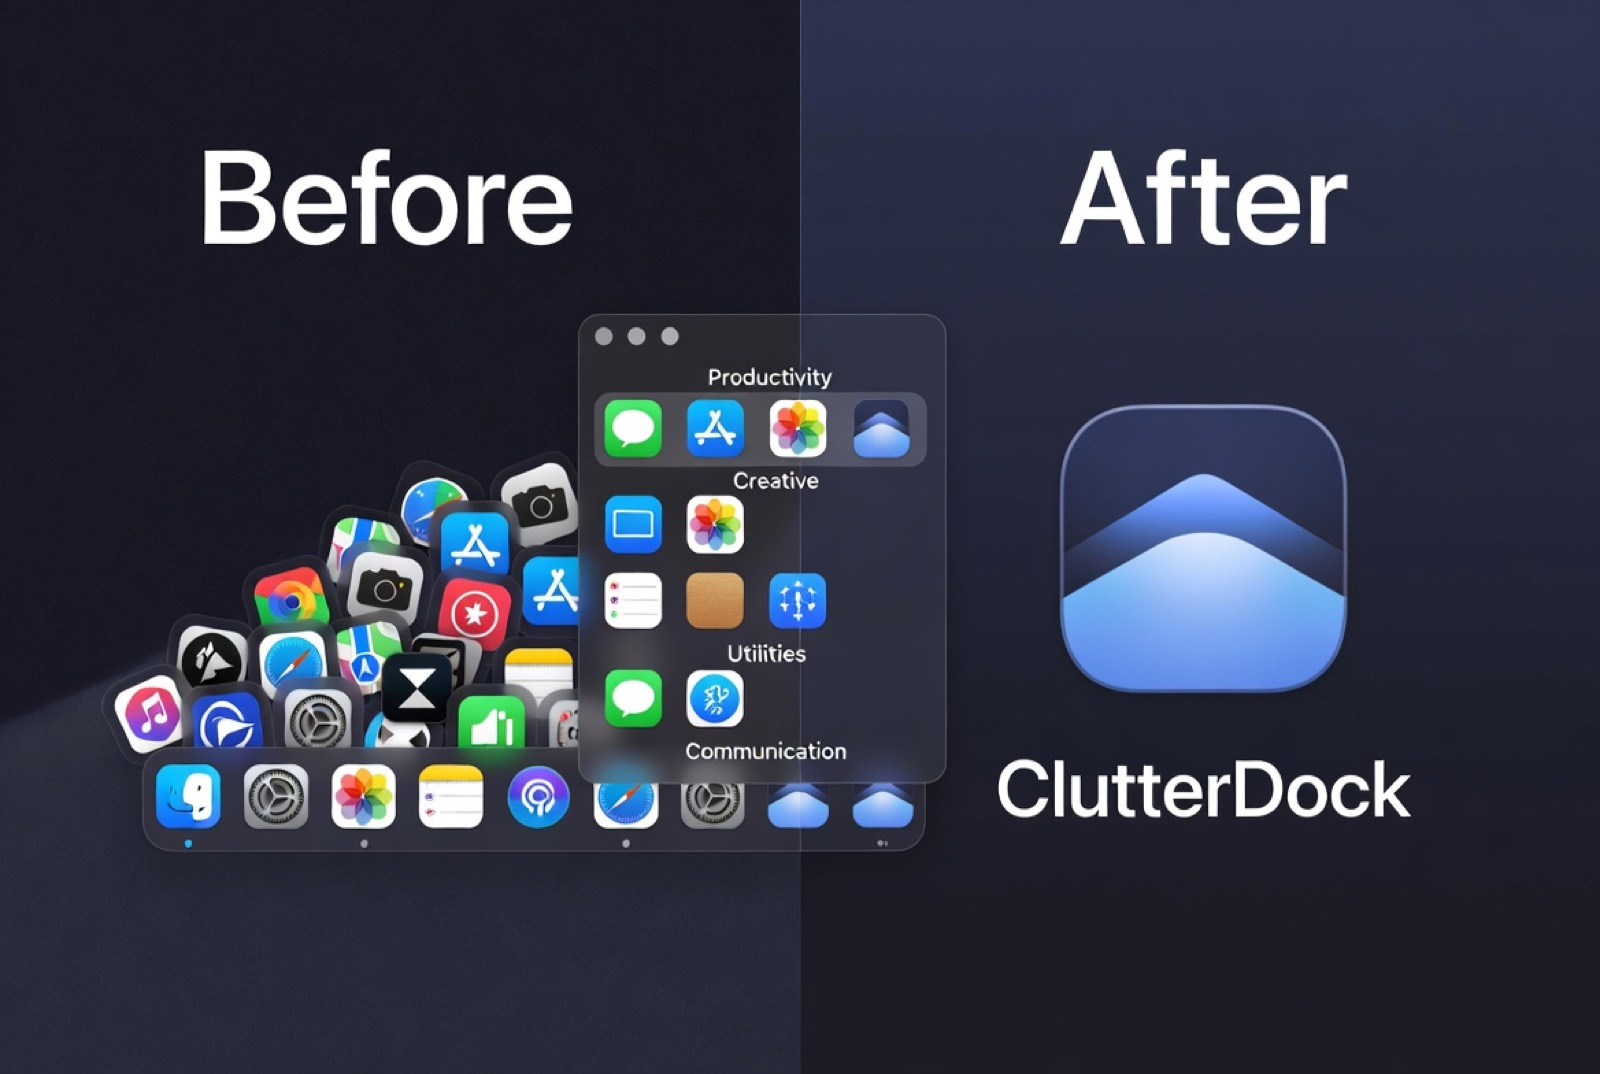
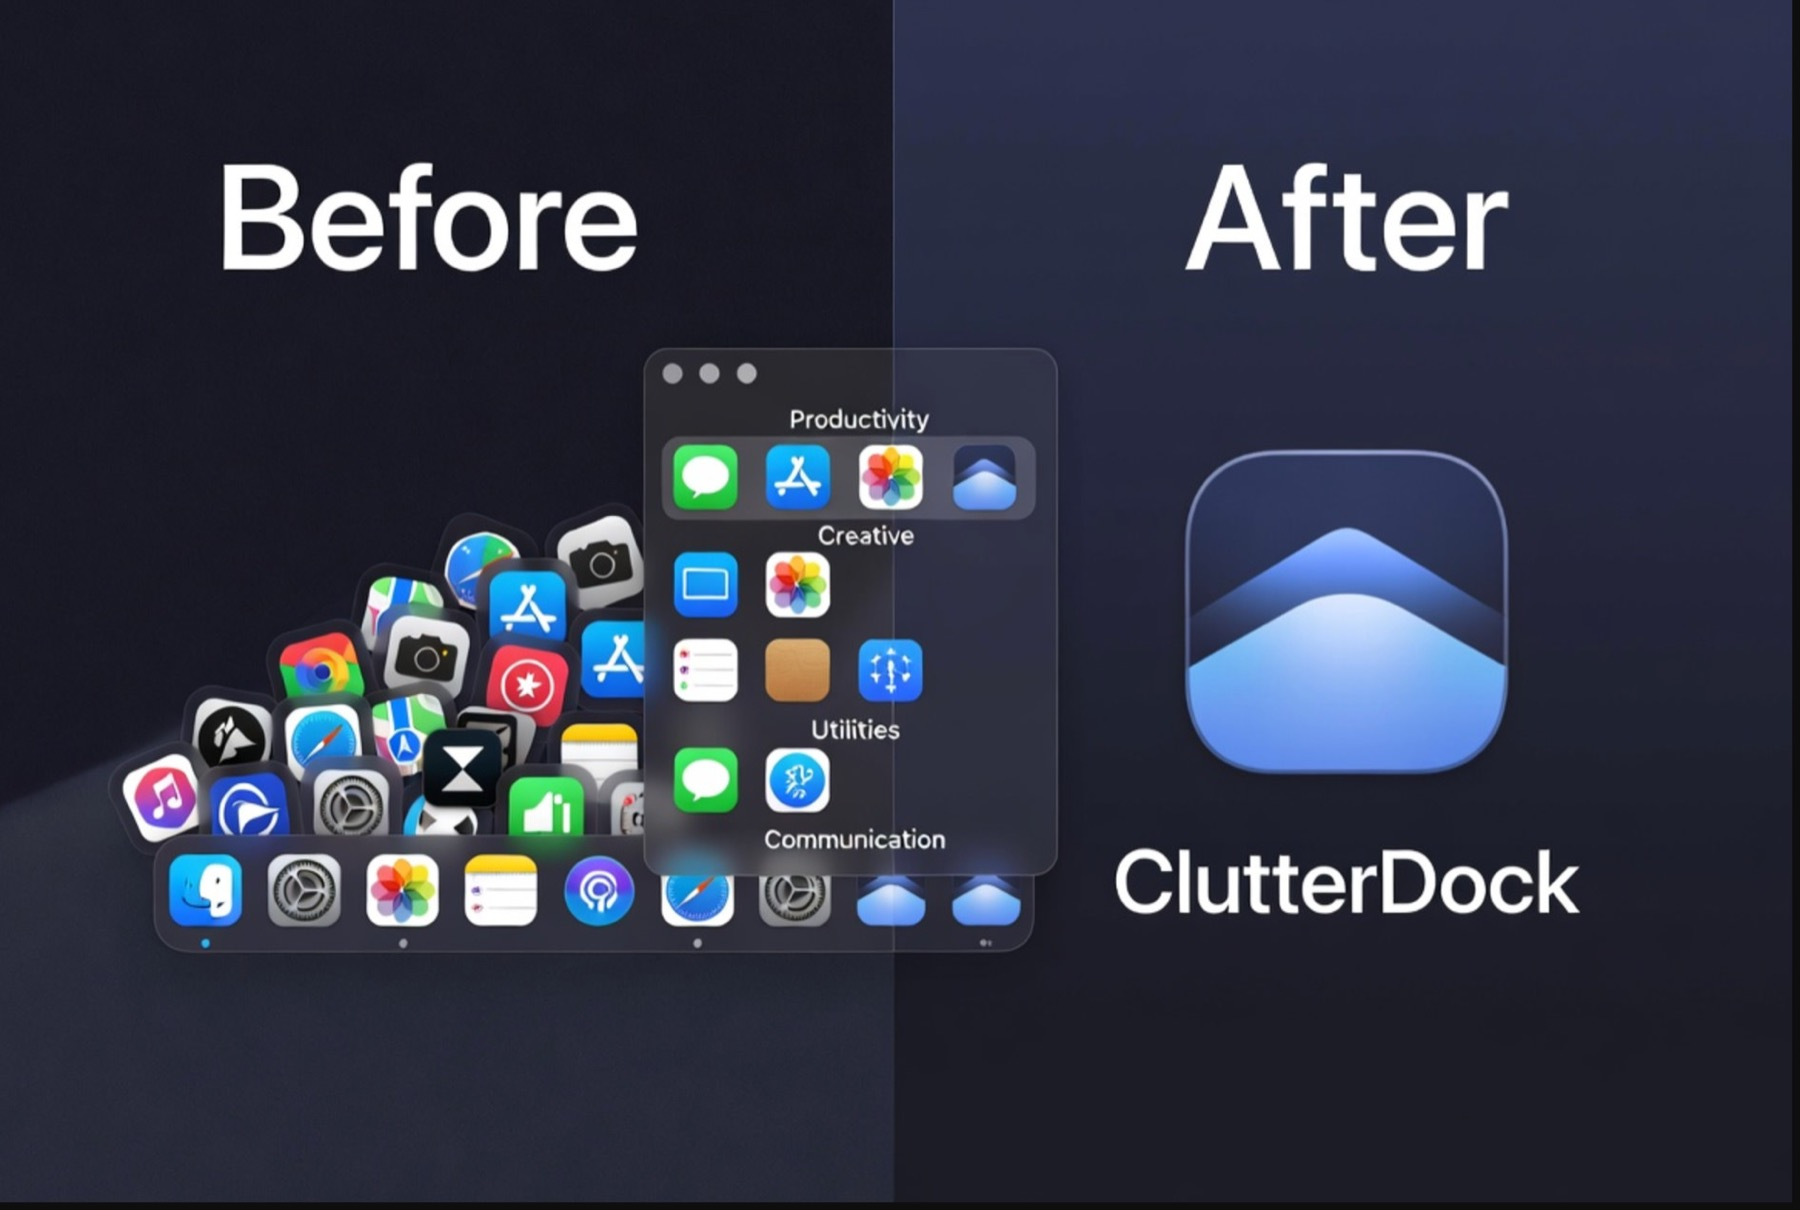
Use attached before/after concept art as site hero
Replace hero and OG assets with the provided ClutterDock
clutter-to-clean image and add a retina srcset.

diff --git a/website/index.html b/website/index.html
@@ -63,9 +63,11 @@
       <figure class="hero-story">
         <img
           src="assets/hero-before-after.jpg"
+          srcset="assets/hero-before-after.jpg 1800w, assets/hero-before-after-full.jpg 1892w"
+          sizes="(max-width: 960px) 100vw, 920px"
           alt="Before and after: a crowded dock full of app icons becomes clean ClutterDock folders and a calm app icon"
-          width="1168"
-          height="784"
+          width="1800"
+          height="1210"
           loading="eager"
         />
         <figcaption class="hero-story-caption">
